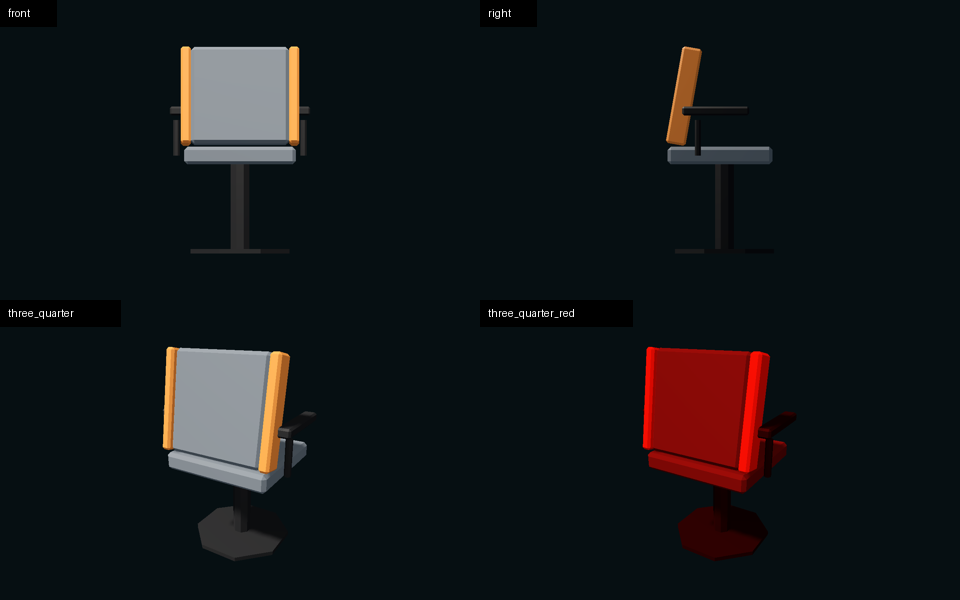
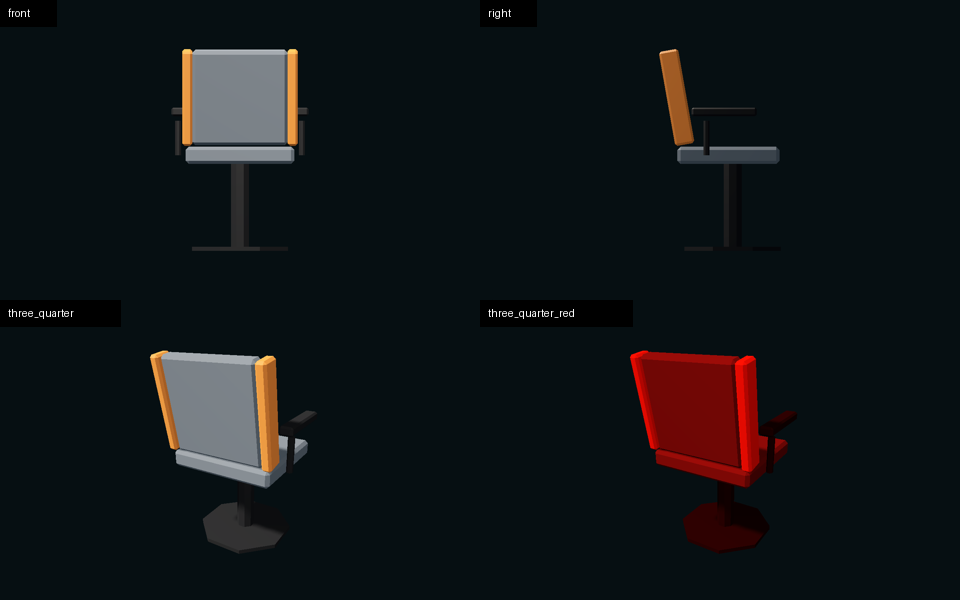
M12.23 · operator_seat: backrest leans back
Refs #434

diff --git a/tools/cadkit/scenes/operator_seat.py b/tools/cadkit/scenes/operator_seat.py
@@ -4,6 +4,8 @@ Brief (cockpit concept #328): modern operator seat on a suspension pedestal, arm
 accents. The occupant faces -Z. The parent binds the behaviour (StationSeat, SonarSeat...) on a node above this
 scene and points `sit_point` at SitPoint, because which seat script applies depends on the station.
 """
+import math
+
 import build123d as bd
 
 from cadkit.solids import Solid, at, box, prism, expect, bbox_mm, export_solids_glb
@@ -18,6 +20,11 @@ BOLSTER_W = 45.0
 ARM_Y, ARM_X = 640.0, 285.0
 
 
+def at_box(b: bd.Shape, y_mm: float) -> bd.Shape:
+    """A half-space box whose bottom face sits at `y_mm` (build units are mm)."""
+    return b.moved(bd.Location((0, y_mm + 1000, 0)))
+
+
 def solids() -> list[Solid]:
     base = prism(8, 240, 20)
     base = base.rotate(axis=bd.Axis.X, angle=-90)          # lie flat: prism +Z becomes +Y
@@ -26,11 +33,11 @@ def solids() -> list[Solid]:
     pan = at(box(PAN_W, PAN_D, PAN_T, chamfer_mm=15).rotate(axis=bd.Axis.X, angle=-90), y=PAN_Y, z=20)
     back = box(BACK_W, BACK_H, BACK_T, chamfer_mm=15, base_z=False)
     back = at(back, y=BACK_H / 2)                                       # bottom edge at y=0
-    back = back.rotate(axis=bd.Axis.X, angle=-BACK_TILT)   # lean back (+Z)
+    back = back.rotate(axis=bd.Axis.X, angle=BACK_TILT)   # lean back (+Z)
     back = at(back, y=PAN_Y + PAN_T + 10, z=PAN_D / 2 + 20 - BACK_T / 2)
     stripes = [at(box(BOLSTER_W, BACK_H, BACK_T + 20, chamfer_mm=10, base_z=False), sx * (BACK_W + BOLSTER_W) / 2, BACK_H / 2)
                for sx in (-1, 1)]
-    stripes = [at(s.rotate(axis=bd.Axis.X, angle=-BACK_TILT), y=PAN_Y + PAN_T + 10, z=PAN_D / 2 + 20 - BACK_T / 2)
+    stripes = [at(s.rotate(axis=bd.Axis.X, angle=BACK_TILT), y=PAN_Y + PAN_T + 10, z=PAN_D / 2 + 20 - BACK_T / 2)
                for s in stripes]
     arms = [at(box(60, 40, 300, chamfer_mm=8, base_z=False), sx * ARM_X, ARM_Y, 40) for sx in (-1, 1)]
     posts = [at(prism(8, 15, ARM_Y - PAN_Y - PAN_T).rotate(axis=bd.Axis.X, angle=-90),
@@ -40,6 +47,13 @@ def solids() -> list[Solid]:
     blo, bhi = bbox_mm(back)
     expect(bhi[2] > hi[2] - 40, "backrest at the back (+Z) of the pan")
     expect(900 < bhi[1] < 1050, f"backrest top {bhi[1]:.0f} mm: shoulder height")
+    mid_y = (blo[1] + bhi[1]) / 2                          # centres of the upper and lower halves differ by H/2 along the lean
+    half = bd.Box(2000, 2000, 2000)
+    upper = back & at_box(half, mid_y)
+    lower = back & at_box(half, mid_y - 2000)
+    lean = upper.center().Z - lower.center().Z
+    want = BACK_H / 2 * math.sin(math.radians(BACK_TILT))
+    expect(abs(lean - want) < 2, f"backrest top is {lean:.1f} mm further toward +Z than its bottom (want {want:.1f})")
     expect(ARM_X - 30 > PAN_W / 2, "armrests outside the pan")
     return ([Solid(base, "trim_black"), Solid(column, "trim_black"), Solid(pan, "interior_panel"), Solid(back, "interior_panel")]
             + [Solid(s, "control_interface") for s in stripes] + [Solid(a, "trim_black") for a in arms + posts])
